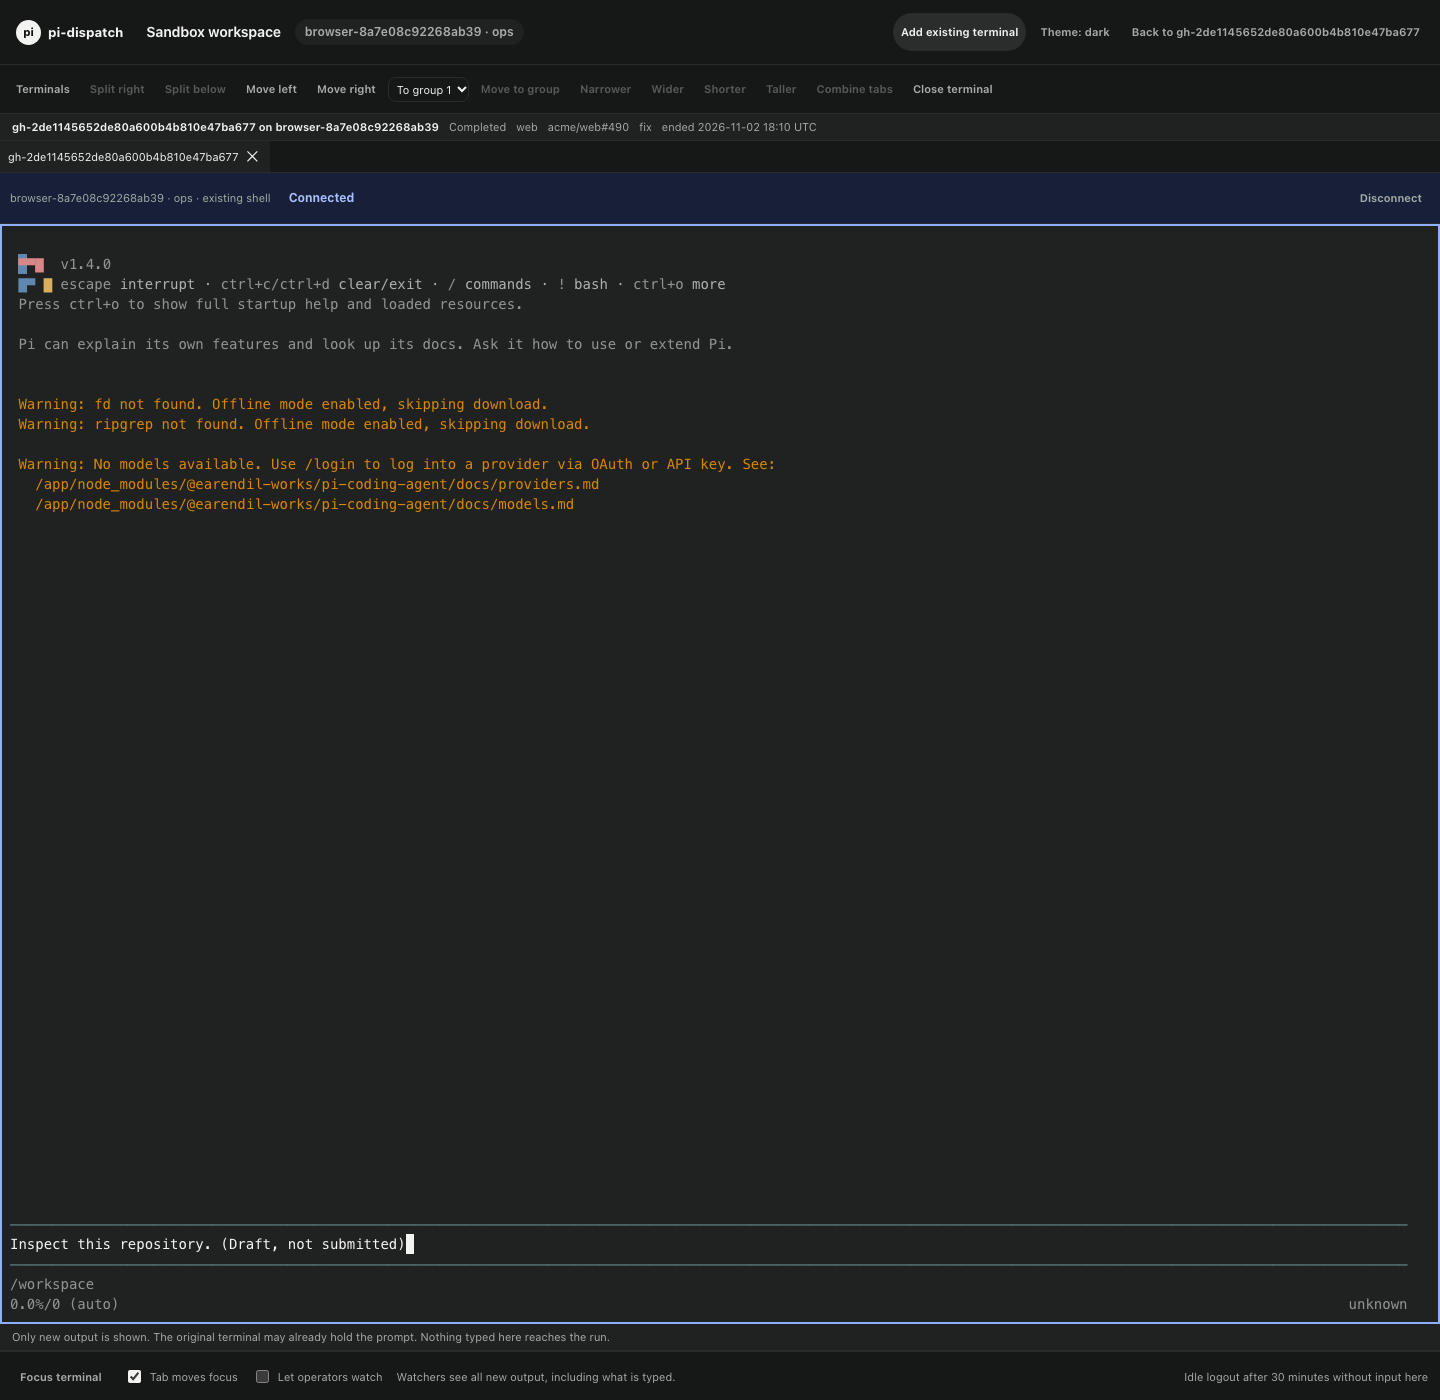
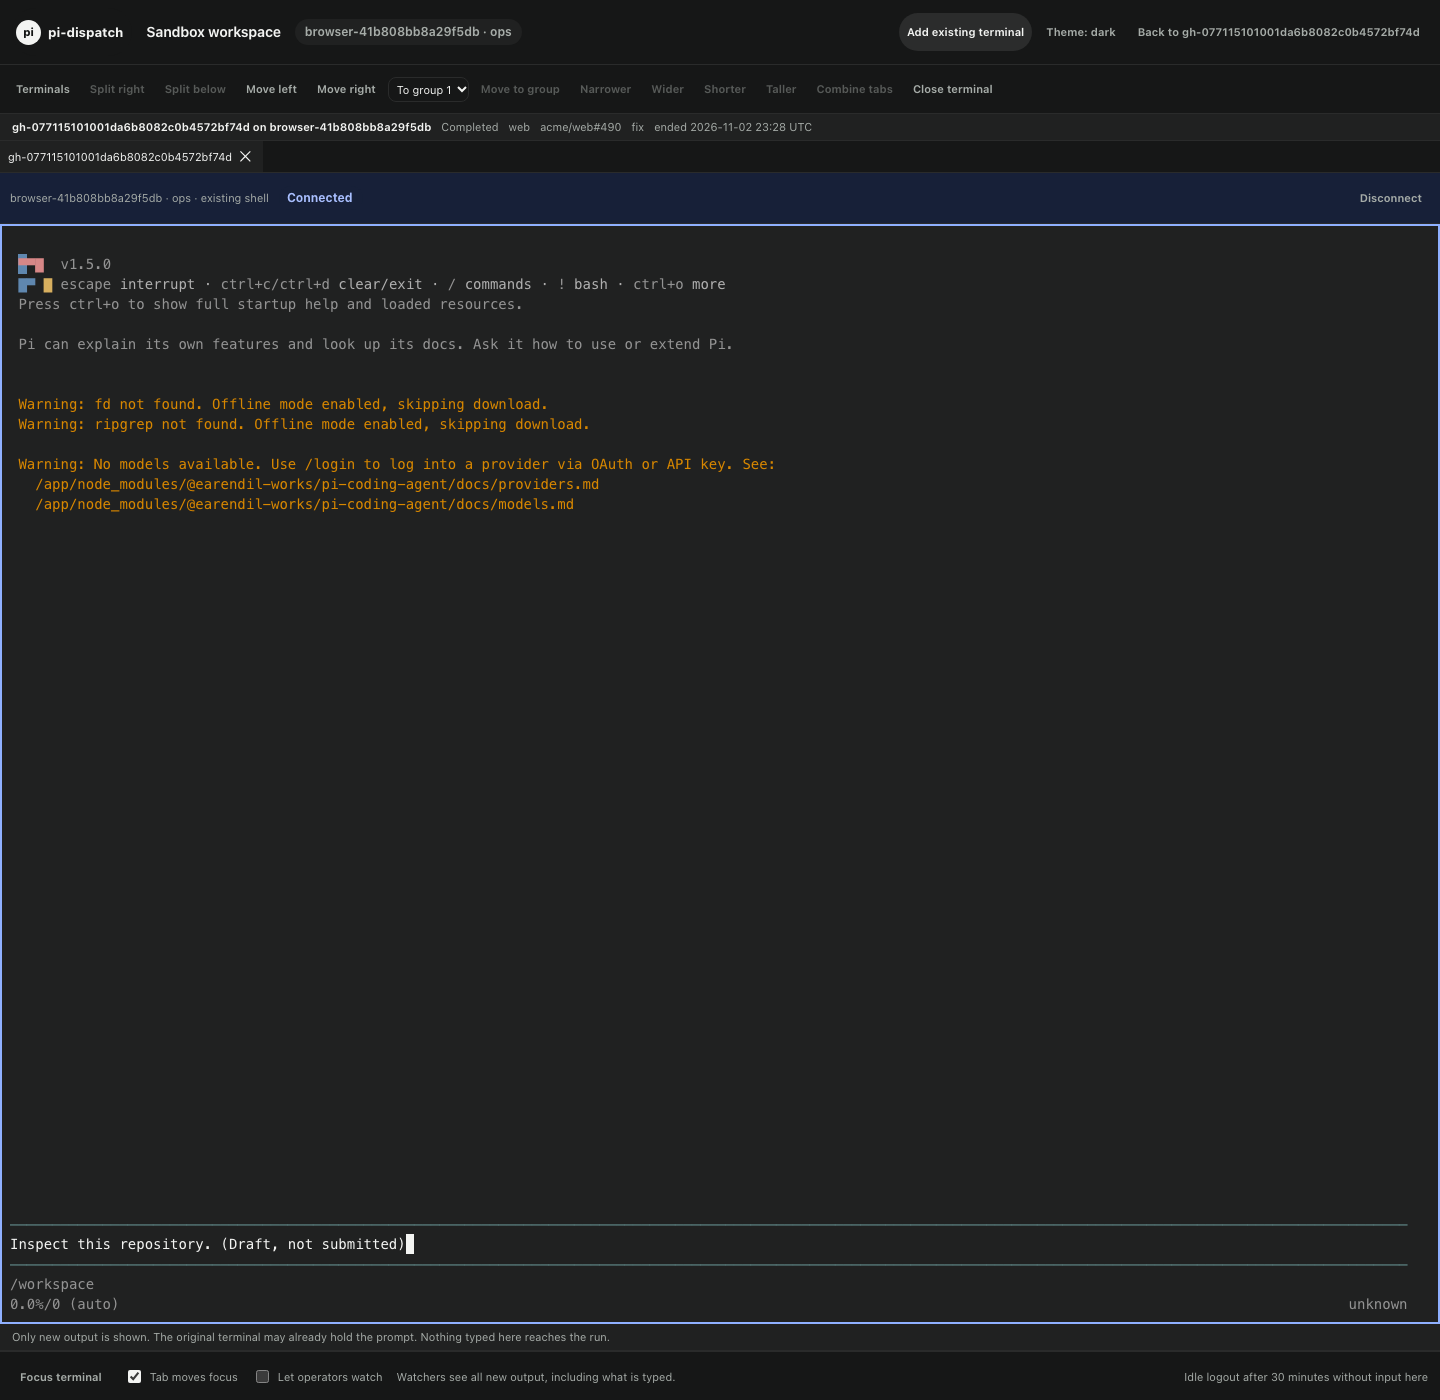
docs(evidence): the final captures, with Updates (#753, #754, #792, #793, #796)
Screenshots for pull request 790, kept off the implementation branch.
Refreshes the workbench and run Workspace captures on the final commit,
now on pi 1.5.0, and adds the Updates page state by state in both themes
at each width.

The README's old note that the design artifact could not be reached is
corrected: its files were compared by hash with the repository.

diff --git a/README.md b/README.md
@@ -1,13 +1,15 @@
-# Visual evidence for #753 and #754
+# Visual evidence for #753, #754, #792, #793 and #796
 
 Unmodified screenshots from fixture deployments, separate from the implementation branch.
-Implementation: `1d33530d` (the final commit) for the workbench, watching and run Workspace captures; `2b41c3abea7728f2d594d6d3a5fb7008be4be530` for Zero touch, which has not changed since.
+Implementation: `be89961f13516a8de1bdaaddf8bcdd6d76c9bf03` (the final commit) for the workbench, watching, run Workspace and Updates captures; `2b41c3abea7728f2d594d6d3a5fb7008be4be530` for Zero touch, which has not changed since.
 Before: `deb7dfef867d469e0e90279719b3ecc033c60a27`.
 
 Zero touch before and after use the same six sent-draft runs. Gateway captures use a real existing Docker sandbox, production application handlers and CSPs, distinct TLS sites, Secure/Strict cookies, xterm.js, and actual input/output. The driver follows both rendered Run and Sandboxes new-tab entry points. Its isolated certificate allowlist trusts only the generated fixture certificate; an unrelated self-signed certificate is rejected. No system trust store is changed.
 
-References are the repository's published-source components. The remote Claude artifact was inaccessible, so these images do not claim direct remote comparison. Reference probes confirmed loaded tokens.css and bundle.css, correct token colors, configured system font stacks and ready fonts before capture. Final application probes confirmed themes, stylesheets, fonts, terminal sizing and CSP. Light/dark, phone/intermediate/desktop, roles, keyboard, no-JavaScript and exceptional states were exercised. Root and independent reviewers inspected the final rendered screenshots against the styled source references.
+References are the repository's published-source components. Before the final publish, every file of the remote design artifact was compared by hash with the repository: it held nothing the repository lacks. Reference probes confirmed loaded tokens.css and bundle.css, correct token colors, configured system font stacks and ready fonts before capture. Final application probes confirmed themes, stylesheets, fonts, terminal sizing and CSP. Light/dark, phone/intermediate/desktop, roles, keyboard, no-JavaScript and exceptional states were exercised. Root and independent reviewers inspected the final rendered screenshots against the styled source references.
 
 These images contain synthetic fixture data and ephemeral sandbox identities. Only synthetic test commands appear in terminal screenshots; no operator token, authorization proof, cookie value or real customer content is included.
 
-The pi TUI examples run the real pinned pi 1.4.0 CLI through the browser gateway, with Docker network mode `none`, no provider credentials, offline mode, and an explicitly unsent draft. The visible warnings are real. Ctrl+C cleared the draft and Ctrl+D returned to the existing bash shell; no model request was submitted. These show current single-session terminal capability, before the proposed multi-terminal workspace.
+The pi TUI examples run the real pinned pi 1.5.0 CLI through the browser gateway, with Docker network mode `none`, no provider credentials, offline mode, and an explicitly unsent draft. The visible warnings are real. Ctrl+C cleared the draft and Ctrl+D returned to the existing bash shell; no model request was submitted. These show current single-session terminal capability, before the proposed multi-terminal workspace.
+
+The `updates-*` captures are the real page's panels, drawn by the real readers from fixture facts, in the console's real stylesheet at each named theme and width. Probes confirmed the design tokens, `bundle.css` and fonts loaded and the canvas colours before capture. Their data is synthetic: package names, versions, hosts and costs are from the fixture deployment.
